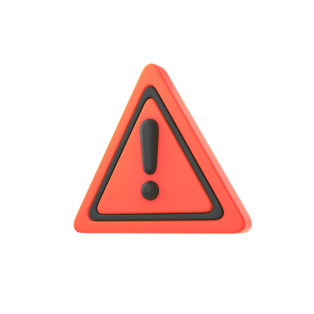
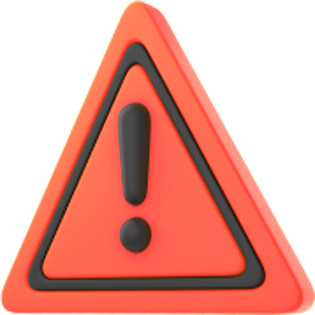
feat: CurrentAttention

diff --git a/src/screens/Palettes/ComponentPalette/ComponentPaletteScreen.js b/src/screens/Palettes/ComponentPalette/ComponentPaletteScreen.js
@@ -2,6 +2,7 @@ import React, {useState} from 'react';
 import {
     ScrollView, Alert, StyleSheet, View,
 } from 'react-native';
+import moment from 'moment';
 import ComponentPaletteItem from './ComponentPaletteItem';
 import DateTime from '../../../components/DateTime/DateTime';
 import AppButton from '../../../components/AppButton/AppButton';
@@ -18,6 +19,7 @@ import {ColorR} from '../../../utils/res/theme';
 import AppLink from '../../../components/AppLink/AppLink';
 import AttentionIcon from '../../../components/AttentionIcon/AttentionIcon';
 import {DANGER_LEVEL} from '../../../utils/constants';
+import CurrentAlarms from '../../../components/CurrentAlarms/CurrentAlarms';
 
 function ComponentPaletteScreen() {
     const buttonModels = [
@@ -65,24 +67,38 @@ function ComponentPaletteScreen() {
                 <ToggleButton
                     isEnabled={isEnabledToggleButton}
                     onChange={onChangeToggleButton}
-                    text={MockData.VIBRATE}
+                    text={MockData.TITLE}
                 />
             </ComponentPaletteItem>
 
             <ComponentPaletteItem name="ButtonWithArrow Component">
-                <ButtonWithArrow text={MockData.SHARE} onClick={() => Alert.alert('Click on button with arrow')} />
+                <ButtonWithArrow text={MockData.TITLE} onClick={() => null} />
             </ComponentPaletteItem>
 
             <ComponentPaletteItem name="ButtonWithIcon Component">
-                <ButtonWithIcon selectedIcon={IconsR.EMAIL_ICON} iconColor={ColorR.GREY} text={MockData.EMAIL} onClick={() => Alert.alert('Click on email')} />
+                <ButtonWithIcon
+                    selectedIcon={IconsR.EMAIL_ICON}
+                    iconColor={ColorR.GREY}
+                    text={MockData.EMAIL}
+                    onClick={() => null}
+                />
             </ComponentPaletteItem>
 
             <ComponentPaletteItem name="AppLink Component">
-                <AppLink text={MockData.TITLE} onClick={() => Alert.alert('Click on Link')} />
+                <AppLink text={MockData.TITLE} onClick={() => null} />
             </ComponentPaletteItem>
 
             <ComponentPaletteItem name="AttentionIcon Component">
-                <AttentionIcon dangerLevel={DANGER_LEVEL.HIGH} />
+                <AttentionIcon dangerLevel={DANGER_LEVEL.HIGH} isSmall={true} />
+            </ComponentPaletteItem>
+
+            <ComponentPaletteItem name="CurrentAttention Component">
+                <CurrentAlarms
+                    dangerLevel={DANGER_LEVEL.HIGH}
+                    title={MockData.TITLE}
+                    dateFrom={moment(new Date()).subtract(1, 'day')}
+                    dateTo={moment(new Date())}
+                />
             </ComponentPaletteItem>
         </ScrollView>
     );

diff --git a/src/components/CurrentAlarms/CurrentAlarms.js b/src/components/CurrentAlarms/CurrentAlarms.js
@@ -1,0 +1,72 @@
+import React from 'react';
+import {StyleSheet, Text, View} from 'react-native';
+import moment from 'moment';
+import AttentionIcon from '../AttentionIcon/AttentionIcon';
+import {ImageStyles} from '../../utils/res/stylesForImages';
+import {ColorR} from '../../utils/res/theme';
+import {AppFont} from '../../utils/res/fonts';
+import {localize} from '../../utils/localize/localize';
+
+function CurrentAlarms({
+    dangerLevel, title, date, dateFrom, dateTo,
+}) {
+    const duration = moment(dateFrom).diff(dateTo);
+    return (
+        <View style={styles.wrapper}>
+
+            <AttentionIcon isSmall={true} dangerLevel={dangerLevel} style={ImageStyles(75, 75)} />
+
+            <View style={styles.texts}>
+
+                <Text style={AppFont(16, 600, ColorR.BLACK)}>{title}</Text>
+
+                <View style={styles.dateElements}>
+                    <Text style={styles.date}>
+                        {moment.utc(date).format('DD MMMM, HH:mm')}
+                    </Text>
+
+                    <Text style={ColorR.LIGHT_GRAY}>
+                        {moment.utc(duration).format(`H${localize.general.hourAbbr}mm${localize.general.minutesAbbr}`)}
+                    </Text>
+
+                </View>
+            </View>
+        </View>
+    );
+}
+
+const styles = StyleSheet.create({
+    wrapper: {
+        flexDirection: 'row',
+        borderRadius: 10,
+        backgroundColor: ColorR.WHITE,
+        paddingTop: 7,
+        paddingRight: 18,
+        paddingBottom: 17,
+        paddingLeft: 17,
+        shadowColor: ColorR.BLACK,
+        shadowOpacity: 0.10,
+        shadowOffset: {
+            width: 10,
+            height: 5,
+        },
+        shadowRadius: 5,
+        elevation: 5,
+    },
+    dateElements: {
+        flexDirection: 'row',
+        marginTop: 10,
+        ...AppFont(14, 600),
+
+    },
+    texts: {
+        marginLeft: 50,
+        alignItems: 'center',
+    },
+    date: {
+        marginRight: 5,
+        color: ColorR.BLACK,
+    },
+});
+
+export default CurrentAlarms;

diff --git a/src/components/AttentionIcon/AttentionIcon.js b/src/components/AttentionIcon/AttentionIcon.js
@@ -1,32 +1,32 @@
 import React from 'react';
-import {Image, StyleSheet, View} from 'react-native';
-import {ImageStyles} from '../../utils/res/stylesForImages';
+import {Image, View} from 'react-native';
 import {DANGER_LEVEL} from '../../utils/constants';
 
-function AttentionIcon({dangerLevel}) {
+const images = {
+    BIG_RED: require('../../assets/images/red-attention.png'),
+    BIG_YELLOW: require('../../assets/images/yellow-attention.png'),
+    SMALL_RED: require('../../assets/images/red-attention-small.png'),
+    SMALL_YELLOW: require('../../assets/images/yellow-attention-small.png'),
+};
+
+function AttentionIcon({dangerLevel, isSmall}) {
     const getImageSrc = () => {
         switch (dangerLevel) {
             case DANGER_LEVEL.HIGH:
-                return require('../../assets/images/red-attention.png');
+                return isSmall ? images.SMALL_RED : images.BIG_RED;
             case DANGER_LEVEL.MEDIUM:
-                return require('../../assets/images/yellow-attention.png');
+                return isSmall ? images.SMALL_YELLOW : images.BIG_YELLOW;
             default:
                 return null;
         }
     };
     return (
-        <View style={styles.images}>
+        <View>
             {dangerLevel === DANGER_LEVEL.NO_DANGER
                 ? null
-                : <Image source={getImageSrc()} style={ImageStyles(95, 95)} />}
+                : <Image source={getImageSrc()} />}
         </View>
     );
 }
-
-const styles = StyleSheet.create({
-    images: {
-        alignItems: 'center',
-    },
-});
 
 export default AttentionIcon;

diff --git a/src/utils/mockData.js b/src/utils/mockData.js
@@ -1,6 +1,4 @@
 export const MockData = {
     TITLE: 'Title',
-    VIBRATE: 'Вібросигнал',
-    SHARE: 'Поділитись застосунком',
     EMAIL: 'support@alarmsystem.com',
 };

diff --git a/src/utils/res/theme.js b/src/utils/res/theme.js
@@ -4,4 +4,5 @@ export const ColorR = {
     BLUE: '#2E88CC',
     BLACK: '#000',
     RED: '#FF0000',
+    LIGHT_GRAY: '#B9B9B9',
 };

diff --git a/src/utils/localize/localize.js b/src/utils/localize/localize.js
@@ -1,0 +1,6 @@
+export const localize = {
+    general: {
+        hourAbbr: 'год.',
+        minutesAbbr: 'хв.',
+    },
+};
